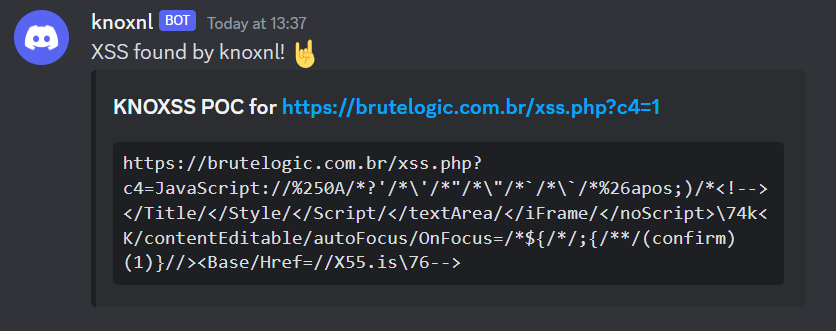
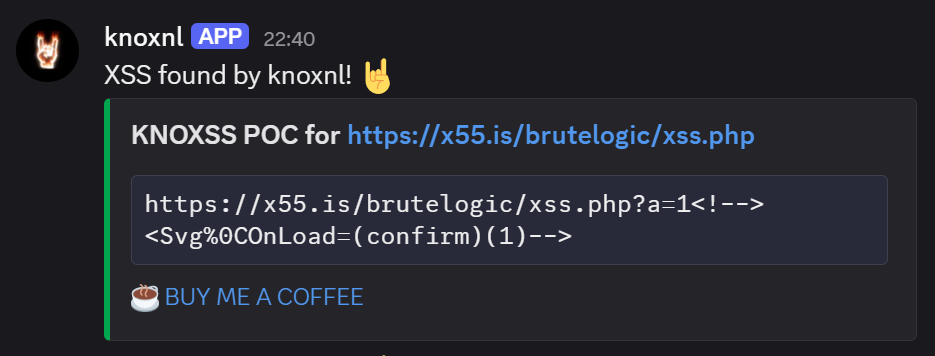
v6.11 - See CHANGELOG.md

diff --git a/knoxnl/knoxnl.py b/knoxnl/knoxnl.py
@@ -669,12 +669,21 @@ def discordNotify(target,poc):
     try:
         embed = {
             "description": "```\n"+poc+"\n```",
-            "title": "KNOXSS POC for "+target
+            "title": "KNOXSS POC for "+target,
+            "color": 42320,  # Green
+            "fields": [
+                {
+                    "name": "",
+                    "value": "[☕ Buy me a coffee](https://ko-fi.com/xnlh4ck3r)", 
+                    "inline": False
+                }
+            ]
         }
         data = {
             "content": "XSS found by knoxnl! 🤘",
             "username": "knoxnl",
             "embeds": [embed],
+            "avatar_url": "https://avatars.githubusercontent.com/u/84544946"
         }
         try:
             result = requests.post(DISCORD_WEBHOOK, json=data)
@@ -685,28 +694,43 @@ def discordNotify(target,poc):
     except Exception as e:
         print(colored('ERROR discordNotify 1: ' + str(e), 'red'))
 
-def discordNotifyComplete(input,description,incomplete):
+def discordNotifyComplete(input, description, incomplete):
     global DISCORD_WEBHOOK_COMPLETE
     try:
         if incomplete:
             title = "INCOMPLETE FOR FILE `"+input+"`"
+            embed_color = 16711722  # Red
         else:
             title = "COMPLETE FOR FILE `"+input+"`"
+            embed_color = 42320  # Green
+
         embed = {
             "description": description,
-            "title": title
+            "title": title,
+            "color": embed_color,
+            "fields": [
+                {
+                    "name": "",
+                    "value": "[☕ Buy me a coffee](https://ko-fi.com/xnlh4ck3r)", 
+                    "inline": False
+                }
+            ]
         }
+
         data = {
             "content": "knoxnl finished!",
             "username": "knoxnl",
+            "avatar_url": "https://avatars.githubusercontent.com/u/84544946",
             "embeds": [embed],
         }
+
         try:
             result = requests.post(DISCORD_WEBHOOK_COMPLETE, json=data)
             if 300 <= result.status_code < 200:
                 print(colored('WARNING: Failed to send notification to Discord - ' + result.json(), 'yellow'))
         except Exception as e:
             print(colored('WARNING: Failed to send notification to Discord - ' + str(e), 'yellow'))
+
     except Exception as e:
         print(colored('ERROR discordNotifyComplete 1: ' + str(e), 'red'))
         

diff --git a/knoxnl/__init__.py b/knoxnl/__init__.py
@@ -1,1 +1,1 @@
-__version__="4.10"
+__version__="4.11"

diff --git a/CHANGELOG.md b/CHANGELOG.md
@@ -1,5 +1,12 @@
 ## Changelog
 
+- 4.11
+
+  - Changed
+
+    - BUG FIX: When processing a file and it's complete, a discord message was only sent when finished but incomplete. It should also be sent when finished and the whole file was completed.
+    - Make discord notifications prettier.
+
 - 4.10
 
   - New
@@ -8,7 +15,7 @@
 
   - Changed
 
-    - BUG FIX: hen the program sleeps for 10 seconds, the KNOXSS error wasn't shown for other thread completing before pausing.
+    - BUG FIX: When the program sleeps for 10 seconds, the KNOXSS error wasn't shown for other thread completing before pausing.
 
 - v4.9
 

diff --git a/README.md b/README.md
@@ -1,6 +1,6 @@
 <center><img src="https://github.com/xnl-h4ck3r/knoxnl/blob/main/knoxnl/images/title.png"></center>
 
-## About - v4.10
+## About - v4.11
 
 This is a python wrapper around the amazing [KNOXSS API](https://knoxss.pro/?page_id=2729) by Brute Logic.
 To use this tool (and the underlying API), you must have a valid KNOXSS API key. Don't have one? Go visit https://knoxss.pro and subscribe!
